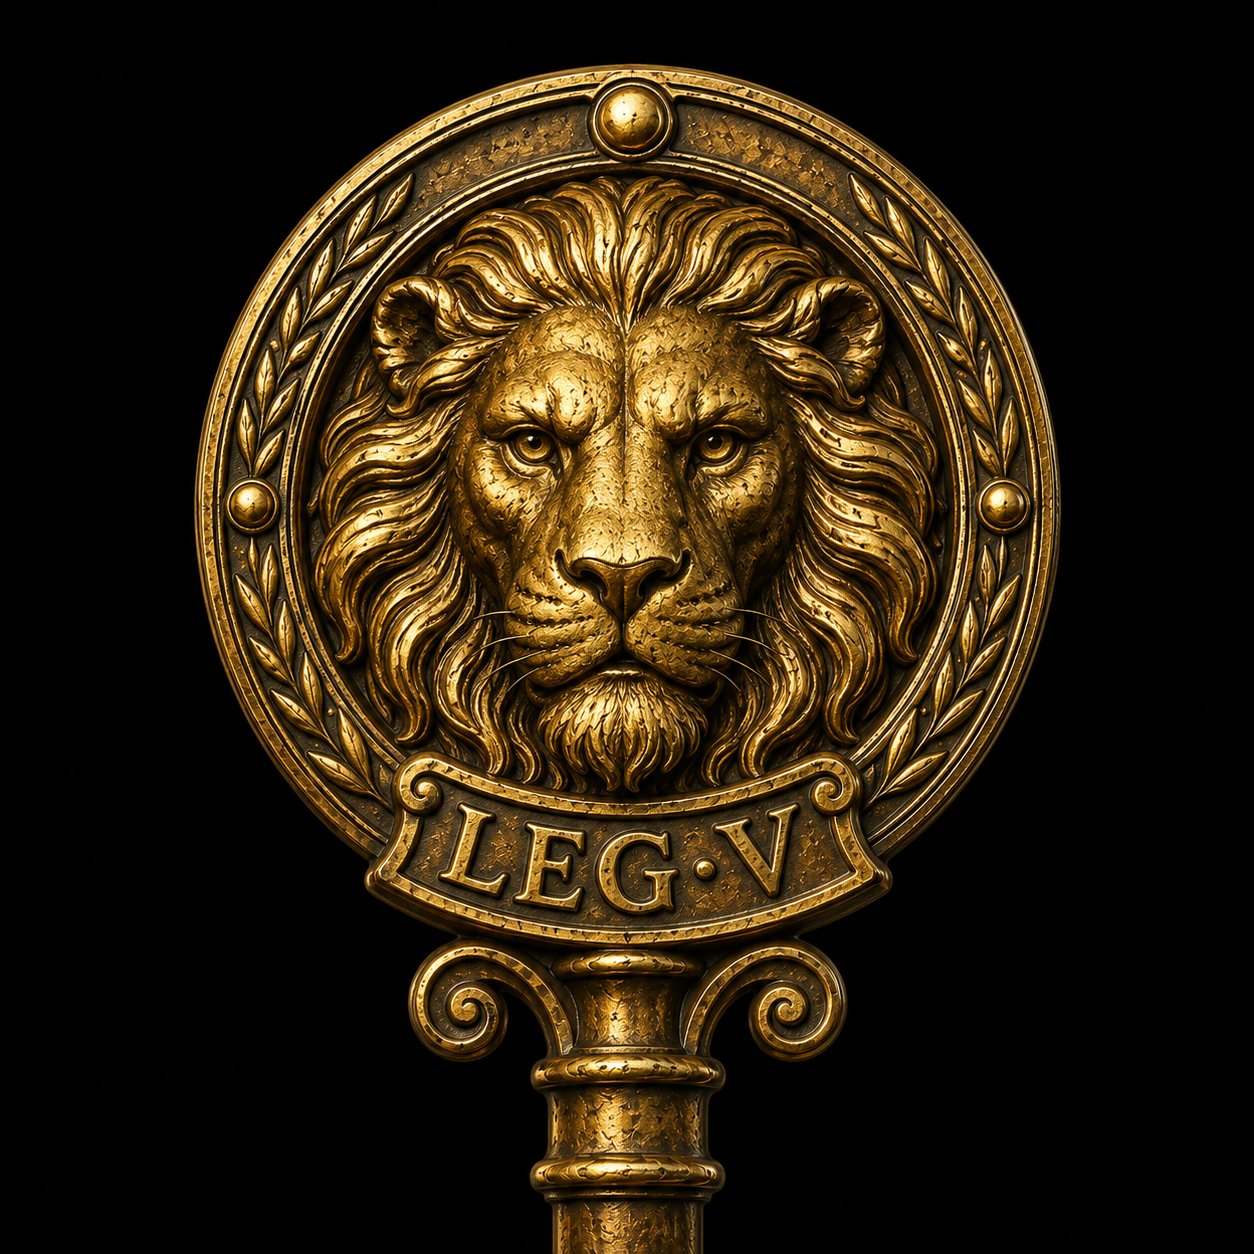
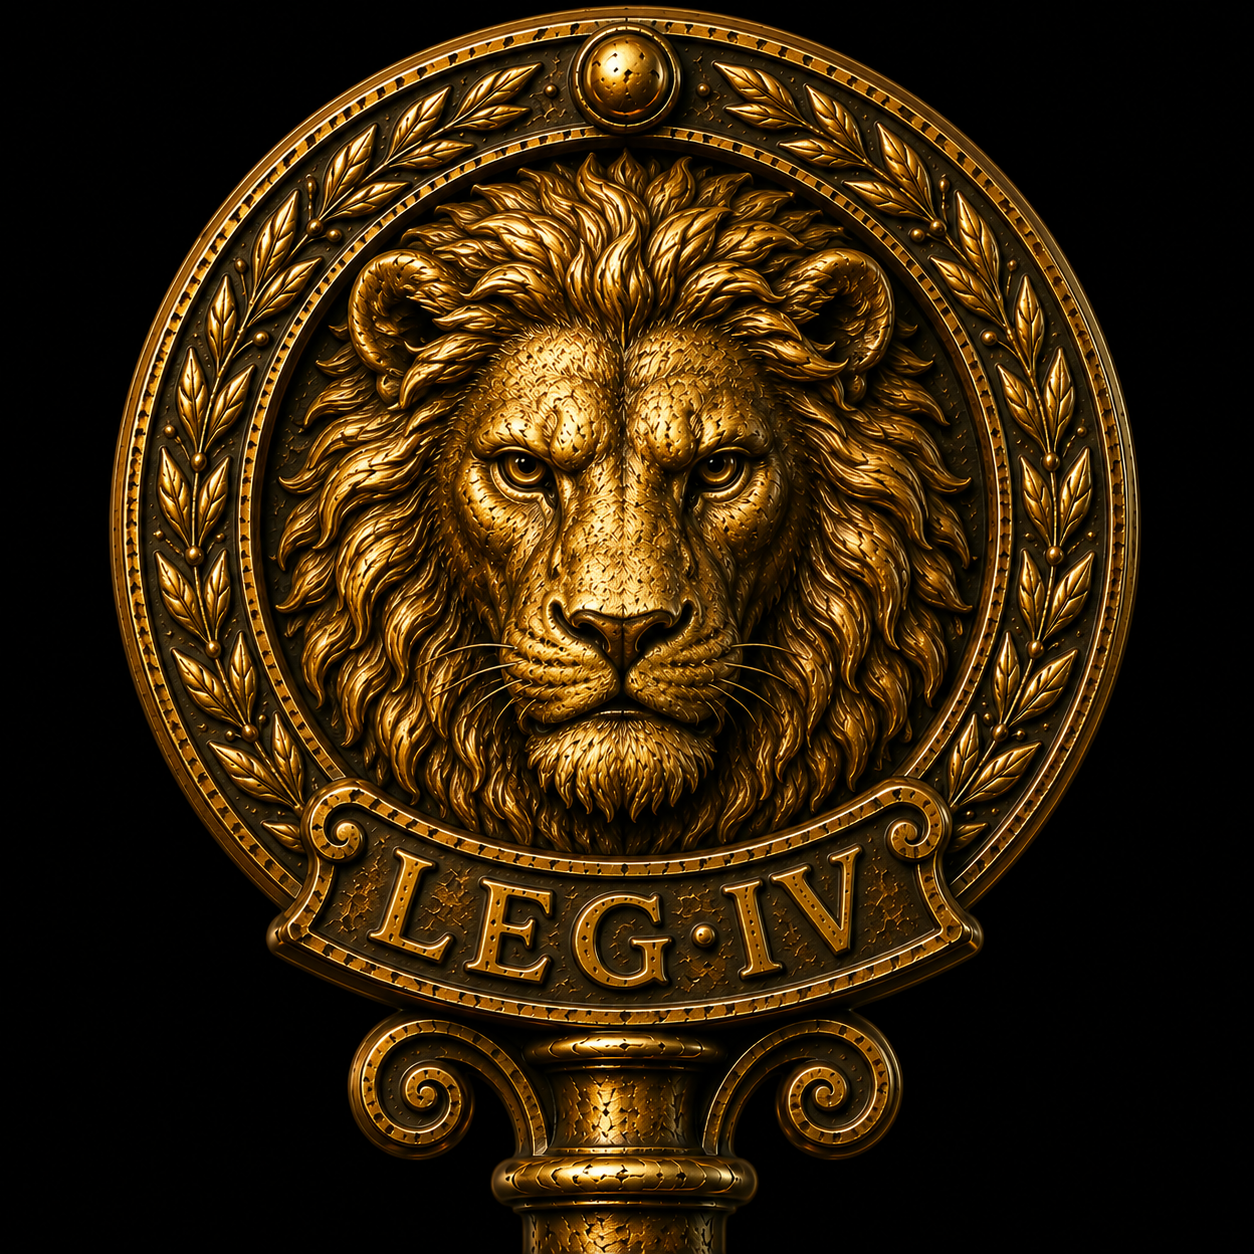
feat: update eagle and lion images; increase standard size to 130

diff --git a/app/learn/page.tsx b/app/learn/page.tsx
@@ -92,7 +92,7 @@ export default async function LearnHome({
                     totalTopics={totalTopics}
                     passedTopics={passedTopics}
                     badgeEarned={badgeEarned}
-                    size={80}
+                    size={130}
                   />
                 </div>
 

diff --git a/components/ChapterStandard.tsx b/components/ChapterStandard.tsx
@@ -24,7 +24,7 @@ const TOTEM_BY_CHAPTER: Record<number, string> = {
   3: "/Boar.png",
   4: "/Aper.png",
   5: "/Capricornus.png",
-  6: "/aquila.png",
+  6: "/eagle.png",
 };
 
 interface Props {